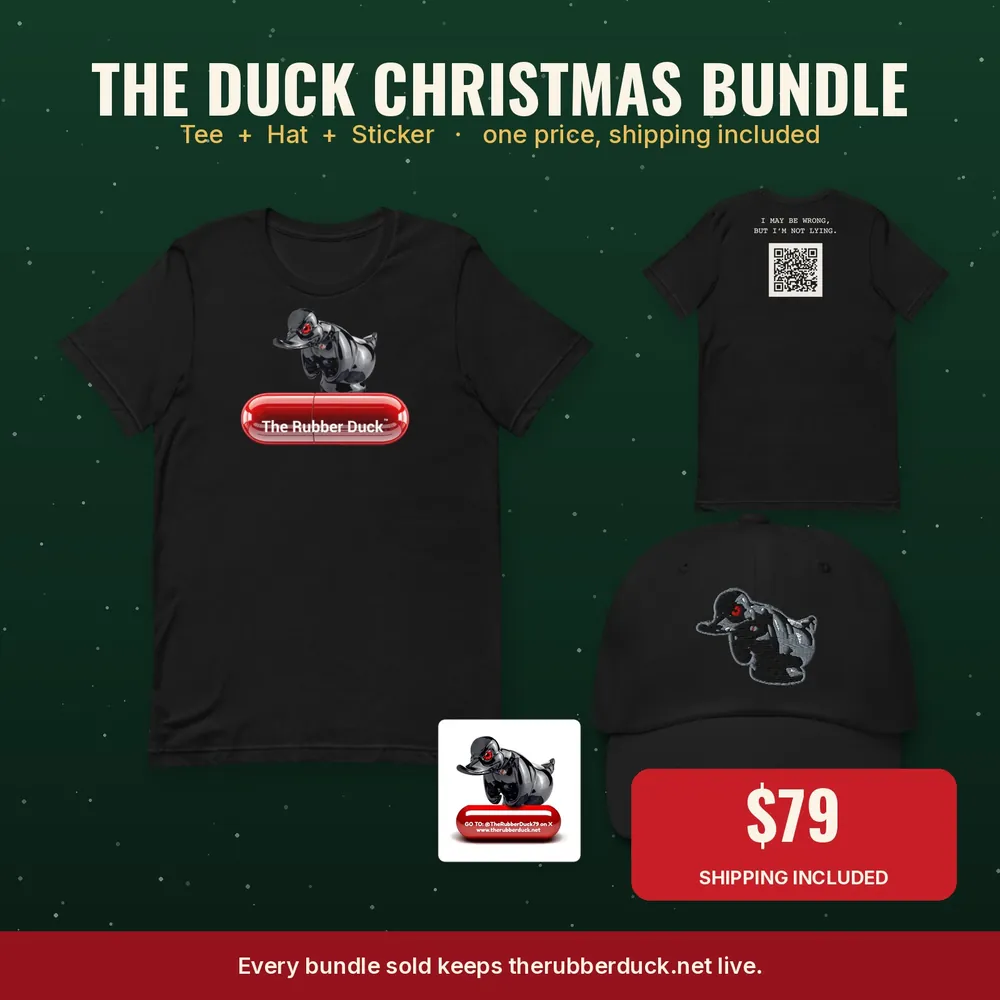
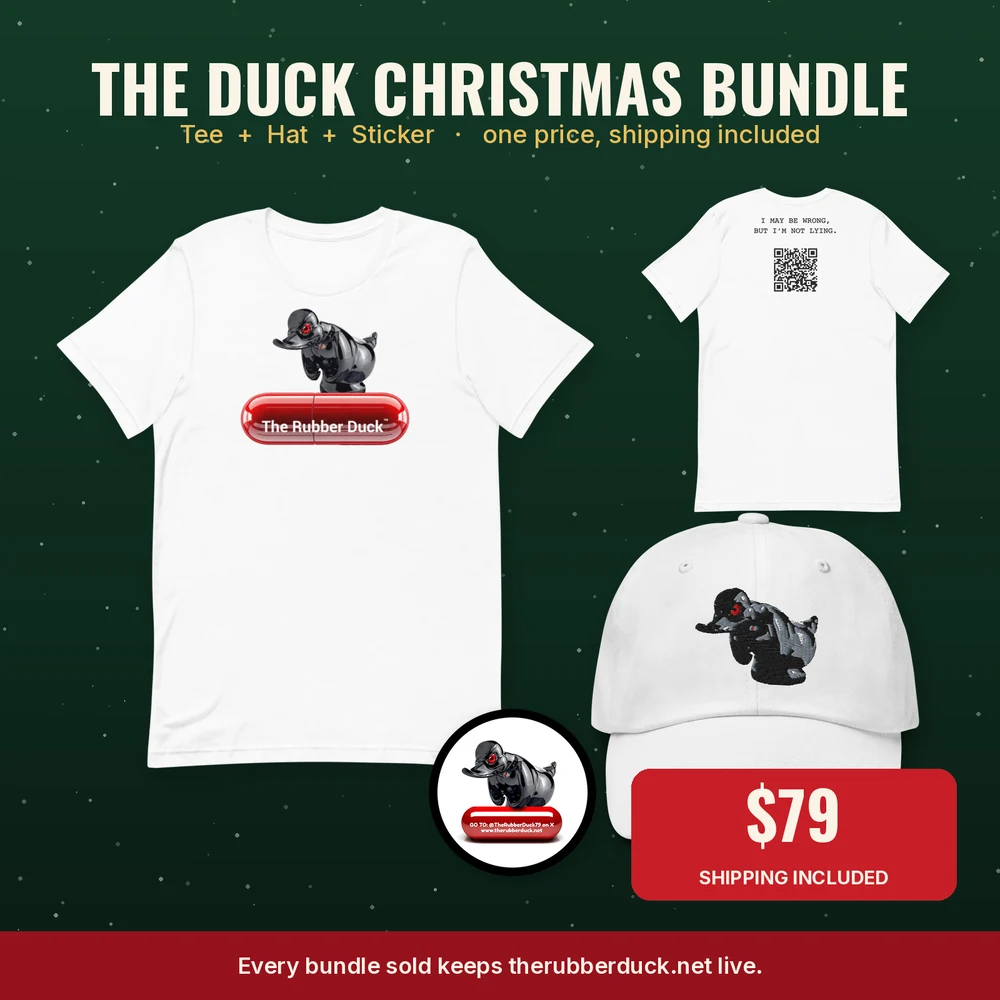
Use the approved white cover as the Christmas bundle hero (Mike, 2026-11-17).

diff --git a/merch.html b/merch.html
@@ -424,9 +424,9 @@ footer a{margin:0 6px;white-space:nowrap;color:#e9d8b2}
       </ul>
       <p>Same bundle for everybody. You just pick the shirt color and the hat color.</p>
       <div class="xb-pick">
-        <label>Shirt color<select id="xb-tee"><option value="black">Black</option><option value="navy">Navy</option><option value="white">White</option><option value="gold">Gold</option></select></label>
+        <label>Shirt color<select id="xb-tee"><option value="black">Black</option><option value="navy">Navy</option><option value="white" selected>White</option><option value="gold">Gold</option></select></label>
         <label>Shirt size<select id="xb-size"><option>S</option><option>M</option><option selected>L</option><option>XL</option><option>2XL</option><option>3XL</option></select></label>
-        <label>Hat color<select id="xb-hat"><option value="black">Black</option><option value="navy">Navy</option><option value="white">White</option></select></label>
+        <label>Hat color<select id="xb-hat"><option value="black">Black</option><option value="navy">Navy</option><option value="white" selected>White</option></select></label>
       </div>
       <a class="xb-buy" id="xb-buy" href="#christmas-bundle" data-checkout="https://buy.stripe.com/4gMbJ189CcF2fldcM79IQ1n" aria-disabled="true">Checkout opens soon</a>
       <p class="xb-cut">Order by Sunday, December 6 to have it by Christmas.</p>
